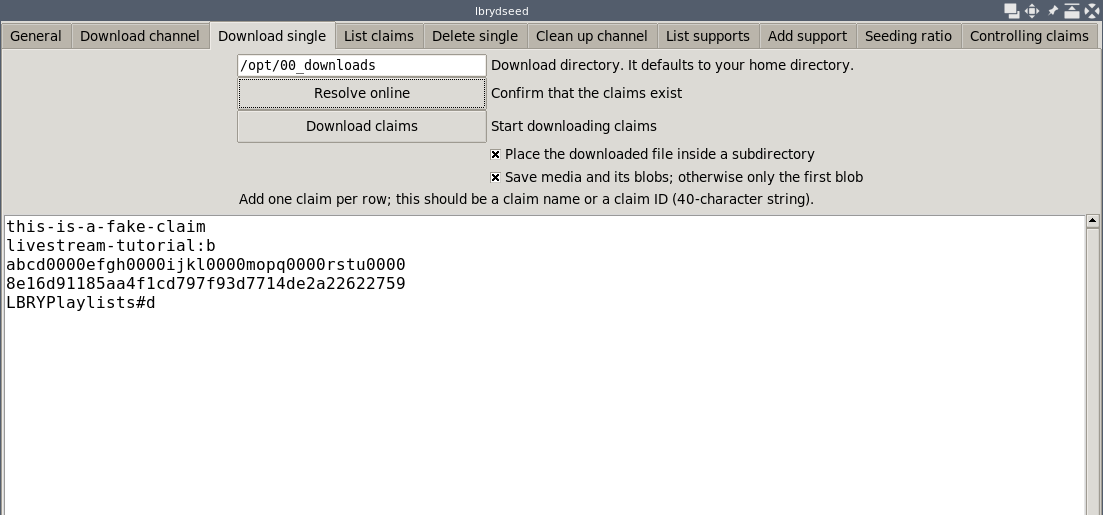
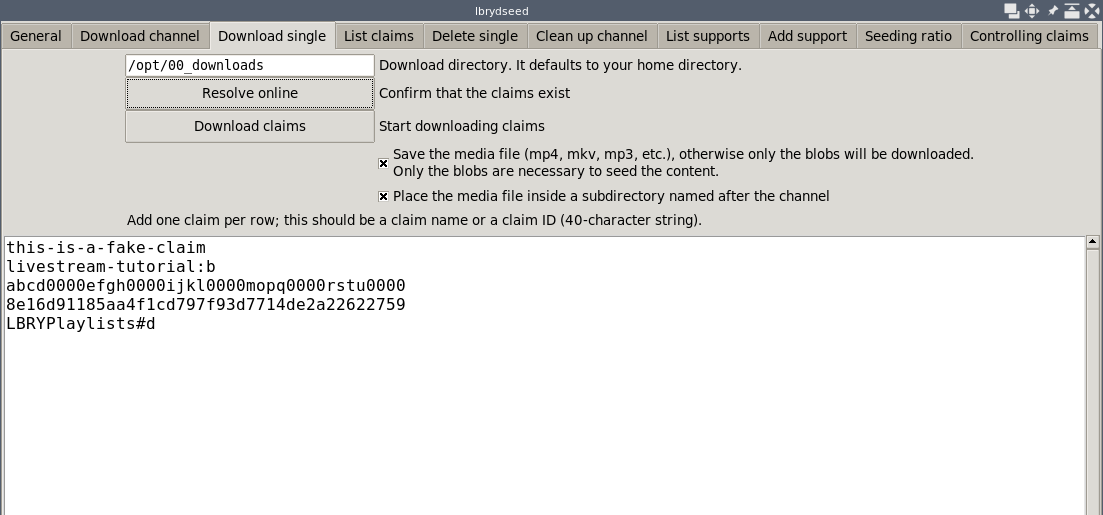
blocks: reword the text of the "Save the media" checkbox
In `DownloadChPage` and `DownloadSinglePage`
the `"Save the media"` checkbox allows us to save the mp4, mkv, mp3, etc.
into the system. Otherwise, only the blobs will be downloaded.

This was recently improved in the external `lbrytools` library.

The `README.md` images are updated.

Changed region(s): [[0.0, 0.0932, 1.0, 0.6524]]

diff --git a/lbseed/blocks.py b/lbseed/blocks.py
@@ -121,21 +121,26 @@ def setup_button_gen(parent,
 
 
 def setup_check_download(parent,
-                         own_dir_var=None,
                          save_var=None,
+                         own_dir_var=None,
                          start=0):
     """Setup for the checkbuttons to modify the download of claims."""
-    chk_owndir = ttk.Checkbutton(parent,
-                                 variable=own_dir_var,
-                                 text=("Place the downloaded file "
-                                       "inside a subdirectory"))
-    chk_owndir.grid(row=start, column=1, sticky=tk.W)
-
     chk_save = ttk.Checkbutton(parent,
                                variable=save_var,
-                               text=("Save media and its blobs; "
-                                     "otherwise only the first blob"))
-    chk_save.grid(row=start+1, column=1, sticky=tk.W)
+                               text=("Save the media file "
+                                     "(mp4, mkv, mp3, etc.), "
+                                     "otherwise only the blobs "
+                                     "will be downloaded.\n"
+                                     "Only the blobs are necessary to seed "
+                                     "the content."))
+    chk_save.grid(row=start, column=1, sticky=tk.W)
+
+    chk_owndir = ttk.Checkbutton(parent,
+                                 variable=own_dir_var,
+                                 text=("Place the media file "
+                                       "inside a subdirectory named after "
+                                       "the channel"))
+    chk_owndir.grid(row=start+1, column=1, sticky=tk.W, pady=2)
 
 
 def setup_check_list(parent,
